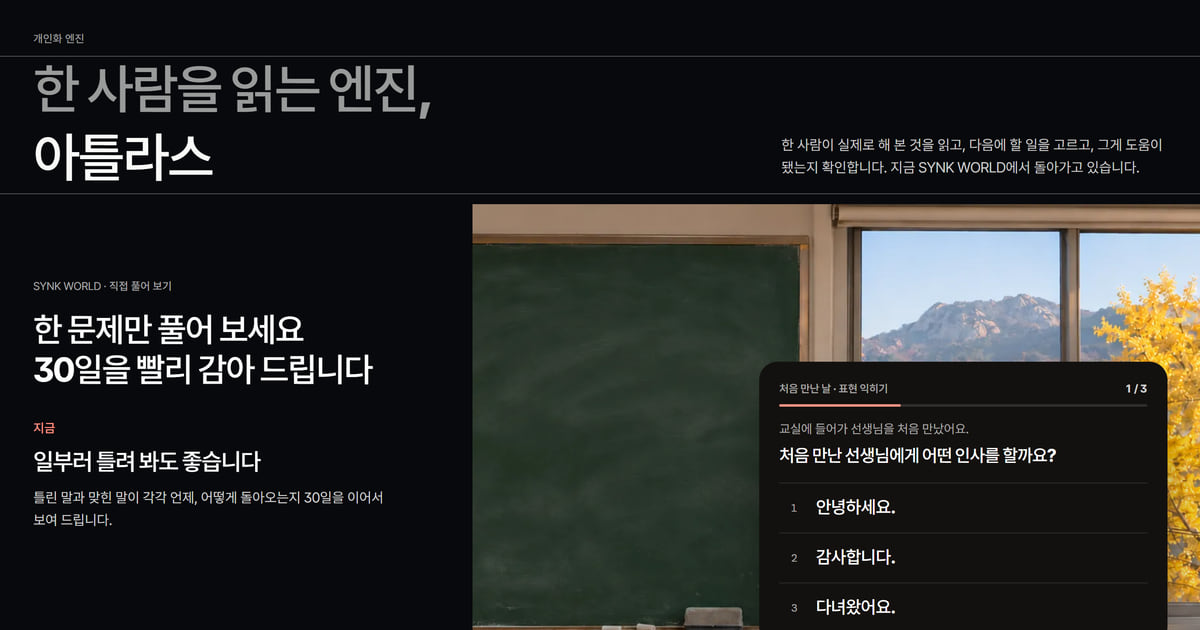
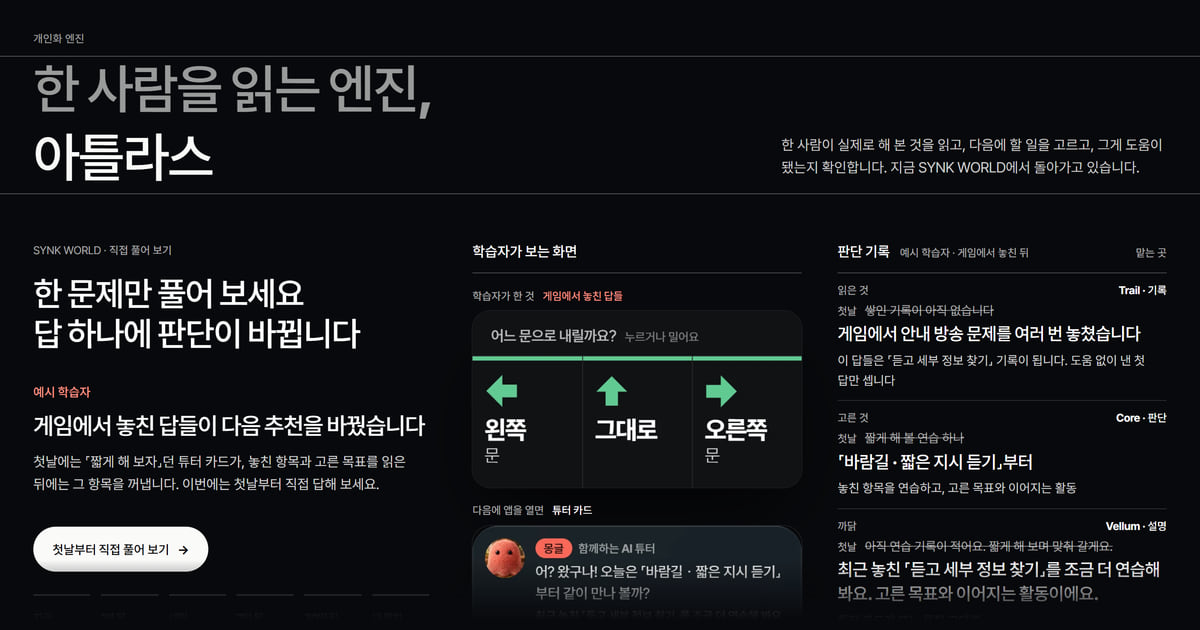
synk.im 뼈대 3단계(2026-11-12): 아틀라스 첫 화면에 「판단 기록」 — 교실 사진 자리에 읽은 것 · 고른 것 · 까닭 세 줄과 맡는 곳 꼬리표, 방문자의 답과 시간에 따라 바뀜(쉬는 화면은 예시 학습자의 한 사례), 공유 그림 새 첫 화면 · 창업자 맺음 제목 「결과로 증명하겠습니다.」 — 원고 SYNK-website claude/site-skeleton-atlas-20261111 9ec2a55(공개 파일) · fe3c0ae(문서 · 시험)

diff --git a/atlas/index.html b/atlas/index.html
@@ -10,15 +10,15 @@
 <link rel="canonical" href="https://synk.im/atlas/">
 <link rel="alternate" hreflang="ko" href="https://synk.im/atlas/"><link rel="alternate" hreflang="en" href="https://synk.im/en/atlas/"><link rel="alternate" hreflang="x-default" href="https://synk.im/atlas/">
 <meta property="og:type" content="website"><meta property="og:url" content="https://synk.im/atlas/"><meta property="og:title" content="아틀라스 — 한 사람을 읽는 엔진"><meta property="og:description" content="아틀라스는 SYNK가 직접 만드는 엔진입니다. 한 사람이 실제로 해 본 것을 읽고, 다음에 할 일을 고르고, 그게 도움이 됐는지 확인합니다. 지금 SYNK WORLD에서 돌아가고 있습니다.">
-<meta property="og:image" content="https://synk.im/assets/v10/og/atlas-ko.jpg?v=3105b8fa22bc"><meta property="og:image:width" content="1200"><meta property="og:image:height" content="630"><meta property="og:image:alt" content="아틀라스 첫 화면 — 「한 사람을 읽는 엔진, 아틀라스」와 직접 풀어 보는 SYNK WORLD 첫 레슨 문제"><meta name="twitter:card" content="summary_large_image">
+<meta property="og:image" content="https://synk.im/assets/v10/og/atlas-ko.jpg?v=ba7c8cff6281"><meta property="og:image:width" content="1200"><meta property="og:image:height" content="630"><meta property="og:image:alt" content="아틀라스 첫 화면 — 「한 사람을 읽는 엔진, 아틀라스」와 예시 학습자의 판단 기록: 게임에서 놓친 답들, 읽은 것 · 고른 것 · 까닭, 다음에 뜨는 튜터 카드"><meta name="twitter:card" content="summary_large_image">
 <link rel="icon" type="image/png" sizes="16x16" href="/assets/favicon-synk-20260919-16.png"><link rel="icon" type="image/png" sizes="32x32" href="/assets/favicon-synk-20260919-32.png"><link rel="icon" type="image/png" sizes="48x48" href="/assets/favicon-synk-20260919-48.png">
 <link rel="preload" href="/assets/v10/suit-v10.woff2" as="font" type="font/woff2" crossorigin>
 <link rel="stylesheet" href="/assets/v10/site.css?v=b67abdbcb510">
 <script>document.documentElement.classList.replace('no-js','js')</script>
 <script type="module" src="/assets/v10/site.js?v=cb64453758c6"></script>
 <link rel="stylesheet" href="/assets/v10/learner.css?v=e13a67585cab">
-<script type="module" src="/assets/v10/learner.js?v=3704c6c7fcdb"></script>
-<link rel="stylesheet" href="/assets/v10/skeleton.css?v=d420bff6b92d">
+<script type="module" src="/assets/v10/learner.js?v=cd2fc412984c"></script>
+<link rel="stylesheet" href="/assets/v10/skeleton.css?v=25431eab662d">
 <script type="module" src="/assets/v10/skeleton.js?v=4b42625da08b"></script>
 <script type="module" src="/social-conversion.js?v=07c3d1bb5c11"></script>
 </head>
@@ -36,16 +36,25 @@
 <div class="k-top"><h1 class="k-claim k-spec" id="p-title"><span class="dim">한 사람을 읽는 엔진,</span> <span>아틀라스</span></h1>
 <p class="k-top-side" data-intro>한 사람이 실제로 해 본 것을 읽고, 다음에 할 일을 고르고, 그게 도움이 됐는지 확인합니다. 지금 SYNK WORLD에서 돌아가고 있습니다.</p></div>
 </div></section>
-<section class="lw lw--try" id="learner" aria-labelledby="learner-title" data-try>
+<section class="lw lw--try lw--judge" id="learner" aria-labelledby="learner-title" data-try>
 <script type="application/json" data-try-data>{"steps":["지금","1분 뒤","내일","7일 뒤","30일 뒤","내 위치"],"start":"class-now","first":{"when":"지금","say":"일부러 틀려 봐도 좋습니다","sub":"틀린 말과 맞힌 말이 각각 언제, 어떻게 돌아오는지 30일을 이어서 보여 드립니다.","head":["처음 만난 날 · 표현 익히기","1 / 3",0.3333333333333333],"context":"교실에 들어가 선생님을 처음 만났어요.","prompt":"처음 만난 선생님에게 어떤 인사를 할까요?","answerId":"a","choices":[{"id":"a","text":"안녕하세요."},{"id":"b","text":"감사합니다."},{"id":"c","text":"다녀왔어요."}]},"second":{"head":["처음 만난 날 · 새 장면 복습","1 / 1",1],"when":"1분 뒤 · 같은 표현, 다른 장면","say":"어? 전에 만난 말인데\n장면이 달라!","sub":"답의 자리만 외우지 않게, 장면을 바꿔 묻습니다.","context":"아직 도움을 받거나 헤어지는 상황은 아니에요.","prompt":"학교에서 처음 만난 직원에게 인사해요.","answerId":"b","choices":[{"id":"a","text":"다녀왔어요."},{"id":"b","text":"안녕하세요."},{"id":"c","text":"감사합니다."}]},"right":{"say":"맞았습니다","sub":"이 말은 내일 다른 장면으로 다시 옵니다."},"wrong":{"say":"이 말은 1분 뒤에 돌아옵니다","sub":"같은 문제가 아니라 다른 장면으로 옵니다. 틀린 답도 첫 기록이 되어 1 · 7 · 30일 뒤 다시 확인합니다."},"backRight":{"say":"다시 만나 맞혔습니다","sub":"이제 내일 또 옵니다. 맞힐수록 간격이 1 · 3 · 7 · 14 · 30일로 벌어집니다."},"backWrong":{"say":"또 1분 뒤에 돌아옵니다","sub":"맞힐 때까지 간격이 벌어지지 않습니다."},"toMinute":"1분 뒤로","toDay1":"내일로","again":"처음부터 다시","days":[{"step":2,"at":"class-morning","when":"내일","say":"앱을 열면 튜터가 먼저 꺼냅니다","sub":"복습 시간표를 따로 열지 않습니다. 돌아올 말이 없는 날에는 다른 연습을 권합니다.","shot":"piece-tutor-review","next":"7일 뒤로"},{"step":3,"at":"class-rain","when":"7일 뒤","say":"맞혔다고 끝이 아닙니다","sub":"일주일 뒤, 다시 확인할 때입니다. 레슨이나 복습을 이어 가면 처음 보는 문제로 확인합니다.","shot":"piece-check-d7","next":"30일 뒤로"},{"step":4,"at":"class-snow","when":"30일 뒤","say":"한 달 뒤, 처음 보는 문제","sub":"레슨을 이어 가면 같은 항목의 다른 문제가 나옵니다. 외웠는지가 아니라 아는지를 봅니다.","ask":{"head":["처음 만난 날 · 표현 익히기","2 / 3",0.6666666666666666],"context":"친구가 떨어진 책을 주워 줬어요.","prompt":"도움을 받았어요. 어떤 말을 할까요?","answerId":"c","choices":[{"id":"a","text":"저는 몽글이에요."},{"id":"b","text":"안녕하세요."},{"id":"c","text":"감사합니다."}]},"right":{"say":"한 달 뒤에도 혼자 맞혔습니다","sub":"이 답이 30일 칸을 채웁니다. 하루 · 일주일 · 한 달 뒤 확인이 모두 끝났습니다."},"wrong":{"say":"이 칸은 「다시 연습」으로 남습니다","sub":"틀린 답도 그대로 남고, 이 말은 1분 뒤 다른 장면으로 돌아옵니다."},"next":"내 위치 보기"},{"step":5,"at":"class-snow","when":"내 위치","say":"점수 말고 근거로 봅니다","sub":"게임 · 생활 레슨 · 짧은 진단의 답이 한 기록에 모입니다. 내 위치는 처음 보는 문제를 도움 없이 푼 답으로만 정합니다.","shot":"piece-evidence"}],"go":{"label":"SYNK WORLD 열기","href":"/world/","arrow":"↗"}}</script>
-<div class="wrap lw-head"><div><p class="label"><span>SYNK WORLD · 직접 풀어 보기</span></p><h2 class="lw-title" id="learner-title"><span>한 문제만 풀어 보세요</span> <span>30일을 빨리 감아 드립니다</span></h2></div></div>
+<script type="application/json" data-judge-data>{"keep":4,"rest":{"when":"예시 학습자","say":"게임에서 놓친 답들이 다음 추천을 바꿨습니다","sub":"첫날에는 「짧게 해 보자」던 튜터 카드가, 놓친 항목과 고른 목표를 읽은 뒤에는 그 항목을 꺼냅니다. 이번에는 첫날부터 직접 답해 보세요.","go":"첫날부터 직접 풀어 보기"},"states":{"example":{"when":"예시 학습자 · 게임에서 놓친 뒤","foot":{"by":"Temper","text":"놓친 항목을 혼자 해낼 수 있게 됐는지는 1 · 7 · 30일 뒤, 처음 보는 문제로 다시 확인합니다","tag":"Temper · 확인"},"read":{"by":"Trail","text":"게임에서 안내 방송 문제를 여러 번 놓쳤습니다","sub":"이 답들은 「듣고 세부 정보 찾기」 기록이 됩니다. 도움 없이 낸 첫 답만 셉니다","was":"쌓인 기록이 아직 없습니다","tag":"Trail · 기록"},"pick":{"by":"Core","text":"「바람길 · 짧은 지시 듣기」부터","sub":"놓친 항목을 연습하고, 고른 목표와 이어지는 활동","was":"짧게 해 볼 연습 하나","tag":"Core · 판단"},"why":{"by":"Vellum","text":"최근 놓친 「듣고 세부 정보 찾기」를 조금 더 연습해 봐요. 고른 목표와 이어지는 활동이에요.","sub":"튜터 카드에 뜨는 문장 그대로","was":"아직 연습 기록이 적어요. 짧게 해 보며 맞춰 갈게요.","tag":"Vellum · 설명"},"wasLabel":"첫날"},"first":{"when":"지금 · 첫날","read":{"by":"Trail","text":"쌓인 기록이 아직 없습니다","tag":"Trail · 기록"},"pick":{"by":"Core","text":"짧게 해 볼 연습 하나","sub":"이 화면에서는 첫 레슨의 첫 문제","tag":"Core · 판단"},"why":{"by":"Vellum","text":"아직 연습 기록이 적어요. 짧게 해 보며 맞춰 갈게요.","sub":"튜터 카드에 뜨는 문장 그대로","tag":"Vellum · 설명"}},"first.wrong":{"when":"지금 · 답한 뒤","log":"지금 · 틀림 → 1분 뒤 다른 장면으로","read":{"by":"Trail","text":"방금 답은 틀렸습니다","sub":"틀린 답도 첫 기록으로 남습니다","tag":"Trail · 기록"},"pick":{"by":"SYNK WORLD 복습 일정","text":"1분 뒤, 같은 말을 다른 장면으로","sub":"맞힐 때까지 간격은 벌어지지 않습니다","was":"짧게 해 볼 연습 하나","tag":"SYNK WORLD 복습 일정"},"why":{"by":"","text":"같은 문제라면 답의 자리만 기억해도 맞힐 수 있습니다","tag":""},"wasLabel":"답하기 전"},"first.right":{"when":"지금 · 답한 뒤","log":"지금 · 혼자 맞힘 → 내일 다른 장면으로","read":{"by":"Trail","text":"방금 답은 혼자 맞혔습니다","sub":"처음 본 문제에 도움 없이 낸 답입니다","tag":"Trail · 기록"},"pick":{"by":"SYNK WORLD 복습 일정","text":"내일, 같은 말을 다른 장면으로","sub":"맞힐 때마다 1 · 3 · 7 · 14 · 30일 뒤로 늦춰집니다","was":"짧게 해 볼 연습 하나","tag":"SYNK WORLD 복습 일정"},"why":{"by":"","text":"한 번 맞힌 것으로는 외운 건지 아는 건지 모릅니다","tag":""},"wasLabel":"답하기 전"},"second":{"when":"1분 뒤","read":{"by":"Trail","text":"조금 전 「안녕하세요.」를 놓쳤습니다","tag":"Trail · 기록"},"pick":{"by":"SYNK WORLD 복습 일정","text":"같은 말, 새 장면","sub":"학교에서 처음 만난 직원에게 인사하기","tag":"SYNK WORLD 복습 일정"},"why":{"by":"","text":"답의 자리만 외우지 않게, 장면을 바꿔 묻습니다","tag":""}},"second.right":{"when":"1분 뒤 · 답한 뒤","log":"1분 뒤 · 다시 만나 맞힘 → 내일","read":{"by":"Trail","text":"다시 만나 맞혔습니다","sub":"다시 만난 답은 연습입니다. 혼자 해낸 근거로 세지 않습니다","tag":"Trail · 기록"},"pick":{"by":"SYNK WORLD 복습 일정","text":"내일 다시, 이제부터 간격이 벌어집니다","sub":"1 · 3 · 7 · 14 · 30일","tag":"SYNK WORLD 복습 일정"},"why":{"by":"","text":"맞힌 말은 잊을 때쯤 다시 꺼냅니다","tag":""}},"second.wrong":{"when":"1분 뒤 · 답한 뒤","log":"1분 뒤 · 또 틀림 → 다시 1분 뒤","read":{"by":"Trail","text":"같은 말을 다시 놓쳤습니다","sub":"다시 만난 답은 연습입니다. 새 근거로 세지 않습니다","tag":"Trail · 기록"},"pick":{"by":"SYNK WORLD 복습 일정","text":"또 1분 뒤, 다른 장면으로","tag":"SYNK WORLD 복습 일정"},"why":{"by":"","text":"맞힐 때까지 간격이 벌어지지 않습니다","tag":""}},"day0":{"when":"내일","log":"내일 · 튜터가 복습을 먼저 꺼냄","read":{"by":"SYNK WORLD 복습 일정","text":"복습할 때가 된 말이 있습니다","sub":"어제 만난 「안녕하세요.」","tag":"SYNK WORLD 복습 일정"},"pick":{"by":"Core","text":"오늘은 복습부터 권합니다","sub":"첫 인사 세 마디 · 새 상황 복습","tag":"Core · 판단"},"why":{"by":"Vellum","text":"복습할 시간이 된 내용이 있어요. 짧게 다시 만나 봐요.","sub":"튜터 카드에 뜨는 문장 그대로","tag":"Vellum · 설명"}},"day1":{"when":"7일 뒤","log":"7일 뒤 · 처음 보는 문제로 다시 확인","read":{"by":"Trail","text":"1일 뒤 확인은 혼자 맞혔습니다","sub":"예시 학습자의 기록","tag":"Trail · 기록"},"pick":{"by":"Temper","text":"7일 뒤 확인을 처음 보는 문제로","sub":"1일 · 7일 · 30일 뒤, 세 번 다시 봅니다","tag":"Temper · 확인"},"why":{"by":"","text":"한 번 맞힌 것으로는 외운 건지 아는 건지 모릅니다","tag":""}},"day2":{"when":"30일 뒤","read":{"by":"Trail","text":"1일 · 7일 뒤 확인을 지났습니다","sub":"예시 학습자의 기록","tag":"Trail · 기록"},"pick":{"by":"Temper","text":"같은 항목의 처음 보는 문제","sub":"낱말 뜻 읽기 · 다른 표현","tag":"Temper · 확인"},"why":{"by":"","text":"외웠는지가 아니라 아는지를 봅니다","tag":""}},"day2.right":{"when":"30일 뒤 · 답한 뒤","log":"30일 뒤 · 혼자 맞힘 → 30일 칸을 채움","read":{"by":"Trail","text":"처음 보는 문제를 혼자 맞혔습니다","tag":"Trail · 기록"},"pick":{"by":"Temper","text":"30일 칸을 채웁니다","sub":"1일 · 7일 · 30일 뒤 확인이 모두 끝났습니다","tag":"Temper · 확인"},"why":{"by":"","text":"같은 문제를 다시 맞힌 것은 확인으로 치지 않습니다","tag":""}},"day2.wrong":{"when":"30일 뒤 · 답한 뒤","log":"30일 뒤 · 틀림 → 「다시 연습」으로 남김","read":{"by":"Trail","text":"한 달 뒤 문제를 놓쳤습니다","tag":"Trail · 기록"},"pick":{"by":"Temper","text":"이 칸은 「다시 연습」으로 남깁니다","tag":"Temper · 확인"},"why":{"by":"","text":"틀린 답도 그대로 남깁니다","tag":""}},"day3":{"when":"내 위치","read":{"by":"Trail","text":"게임 · 생활 레슨 · 짧은 진단의 답이 한 기록에 모였습니다","tag":"Trail · 기록"},"pick":{"by":"Core","text":"도움 없이 푼 답을 근거로 위치를 정합니다","sub":"처음 보는 문제에서 혼자 맞힌 것","tag":"Core · 판단"},"why":{"by":"","text":"도움을 받고 맞힌 답, 이미 본 문제의 답은 혼자 해낸 근거가 아닙니다","tag":""}}}}</script>
+<div class="wrap lw-head"><div><p class="label"><span>SYNK WORLD · 직접 풀어 보기</span></p><h2 class="lw-title" id="learner-title"><span>한 문제만 풀어 보세요</span> <span>답 하나에 판단이 바뀝니다</span></h2></div></div>
 <div class="lw-stage"><div class="lw-tryframe">
-<div class="lw-copy"><div aria-live="polite"><p class="lw-when" data-when></p><p class="lw-q" data-say></p><p class="lw-a" data-sub></p></div><div class="lw-next" data-next></div></div>
-<div class="lw-visual"><img data-photo="class-now" src="/assets/v10/learner/class-now.webp" srcset="/assets/v10/r/v10-learner-class-now-w320.webp 320w, /assets/v10/r/v10-learner-class-now-w480.webp 480w, /assets/v10/r/v10-learner-class-now-w800.webp 800w, /assets/v10/r/v10-learner-class-now-w1200.webp 1200w, /assets/v10/learner/class-now.webp 1664w" sizes="(max-width:900px) 150vw, min(100vw,1920px)" alt="" width="1664" height="920" class="lw-photo is-on" loading="lazy" decoding="async"><img data-photo="class-morning" src="/assets/v10/learner/class-morning.webp" srcset="/assets/v10/r/v10-learner-class-morning-w320.webp 320w, /assets/v10/r/v10-learner-class-morning-w480.webp 480w, /assets/v10/r/v10-learner-class-morning-w800.webp 800w, /assets/v10/r/v10-learner-class-morning-w1200.webp 1200w, /assets/v10/learner/class-morning.webp 1664w" sizes="(max-width:900px) 150vw, min(100vw,1920px)" alt="" width="1664" height="920" class="lw-photo" loading="lazy" decoding="async"><img data-photo="class-rain" src="/assets/v10/learner/class-rain.webp" srcset="/assets/v10/r/v10-learner-class-rain-w320.webp 320w, /assets/v10/r/v10-learner-class-rain-w480.webp 480w, /assets/v10/r/v10-learner-class-rain-w800.webp 800w, /assets/v10/r/v10-learner-class-rain-w1200.webp 1200w, /assets/v10/learner/class-rain.webp 1664w" sizes="(max-width:900px) 150vw, min(100vw,1920px)" alt="" width="1664" height="920" class="lw-photo" loading="lazy" decoding="async"><img data-photo="class-snow" src="/assets/v10/learner/class-snow.webp" srcset="/assets/v10/r/v10-learner-class-snow-w320.webp 320w, /assets/v10/r/v10-learner-class-snow-w480.webp 480w, /assets/v10/r/v10-learner-class-snow-w800.webp 800w, /assets/v10/r/v10-learner-class-snow-w1200.webp 1200w, /assets/v10/learner/class-snow.webp 1664w" sizes="(max-width:900px) 150vw, min(100vw,1920px)" alt="" width="1664" height="920" class="lw-photo" loading="lazy" decoding="async">
-<div class="lw-piece lw-quiz" data-quiz><div class="lwq-top"><span data-qhead lang="ko"></span><span data-qcount></span></div><i class="lwq-bar" aria-hidden="true"><b data-qbar></b></i><p class="lwq-context" data-context lang="ko"></p><p class="lwq-prompt" data-prompt lang="ko"></p><div class="lwq-choices" data-choices lang="ko"></div></div>
+<div class="lw-copy"><div aria-live="polite"><p class="lw-when" data-when>예시 학습자</p><p class="lw-q" data-say>게임에서 놓친 답들이 다음 추천을 바꿨습니다</p><p class="lw-a" data-sub>첫날에는 「짧게 해 보자」던 튜터 카드가, 놓친 항목과 고른 목표를 읽은 뒤에는 그 항목을 꺼냅니다. 이번에는 첫날부터 직접 답해 보세요.</p></div><div class="lw-next" data-next></div></div>
+<div class="lw-visual">
+<p class="k-judge-head k-judge-did"><b>학습자가 보는 화면</b></p>
+<div class="k-judge-rest" data-judge-rest><figure class="k-judge-shot k-judge-shot--did"><figcaption><span>학습자가 한 것</span><em>게임에서 놓친 답들</em></figcaption><div><img src="/assets/v10/learner/ko/piece-game.webp" srcset="/assets/v10/r/v10-learner-ko-piece-game-w320.webp 320w, /assets/v10/r/v10-learner-ko-piece-game-w480.webp 480w, /assets/v10/learner/ko/piece-game.webp 780w" sizes="(max-width:719px) 92vw, (max-width:900px) 46vw, (min-width:1280px) min(34vw,540px), 430px" alt="환승 러시 게임의 고르는 판. 안내 방송을 듣고 「어느 문으로 내릴까요?」 아래 왼쪽 문, 그대로, 오른쪽 문 세 칸 가운데 하나를 누르거나 밀어 고른다" width="780" height="514" loading="lazy" decoding="async"></div></figure><figure class="k-judge-shot k-judge-shot--sees"><figcaption><span>다음에 앱을 열면</span><em>튜터 카드</em></figcaption><div><img src="/assets/v10/learner/ko/piece-tutor.webp" srcset="/assets/v10/r/v10-learner-ko-piece-tutor-w320.webp 320w, /assets/v10/r/v10-learner-ko-piece-tutor-w480.webp 480w, /assets/v10/learner/ko/piece-tutor.webp 732w" sizes="(max-width:719px) 92vw, (max-width:900px) 46vw, (min-width:1280px) min(34vw,540px), 430px" alt="SYNK WORLD 튜터 카드. 오늘은 「바람길 · 짧은 지시 듣기」부터 하자고 권하며, 최근 놓친 「듣고 세부 정보 찾기」를 더 연습하자는 이유를 적었다" width="732" height="277" loading="lazy" decoding="async"></div></figure></div>
+<div class="lw-piece lw-quiz" data-quiz hidden><div class="lwq-top"><span data-qhead lang="ko"></span><span data-qcount></span></div><i class="lwq-bar" aria-hidden="true"><b data-qbar></b></i><p class="lwq-context" data-context lang="ko"></p><p class="lwq-prompt" data-prompt lang="ko"></p><div class="lwq-choices" data-choices lang="ko"></div></div>
 <figure class="lw-piece lw-shot" data-shot="piece-tutor-review" hidden><img src="/assets/v10/learner/ko/piece-tutor-review.webp" srcset="/assets/v10/r/v10-learner-ko-piece-tutor-review-w320.webp 320w, /assets/v10/r/v10-learner-ko-piece-tutor-review-w480.webp 480w, /assets/v10/learner/ko/piece-tutor-review.webp 732w" sizes="(max-width:900px) 92vw, (min-width:1280px) min(34vw,540px), 430px" alt="다음 날의 튜터 카드. 오늘은 「첫 인사 세 마디 · 새 상황 복습」부터 하자며, 복습할 시간이 된 내용이 있다고 말한다" width="732" height="239" loading="lazy" decoding="async"></figure>
 <figure class="lw-piece lw-shot" data-shot="piece-check-d7" hidden><img src="/assets/v10/learner/ko/piece-check-d7.webp" srcset="/assets/v10/r/v10-learner-ko-piece-check-d7-w320.webp 320w, /assets/v10/r/v10-learner-ko-piece-check-d7-w480.webp 480w, /assets/v10/learner/ko/piece-check-d7.webp 692w" sizes="(max-width:900px) 92vw, (min-width:1280px) min(34vw,540px), 430px" alt="다시 확인 카드. 1일 뒤는 혼자 맞힘, 7일 뒤는 지금 확인, 30일 뒤는 12월 9일" width="692" height="236" loading="lazy" decoding="async"></figure>
 <figure class="lw-piece lw-shot" data-shot="piece-evidence" hidden><img src="/assets/v10/learner/ko/piece-evidence.webp" srcset="/assets/v10/r/v10-learner-ko-piece-evidence-w320.webp 320w, /assets/v10/r/v10-learner-ko-piece-evidence-w480.webp 480w, /assets/v10/learner/ko/piece-evidence.webp 780w" sizes="(max-width:900px) 92vw, (min-width:1280px) min(34vw,540px), 430px" alt="내 위치 화면의 낱말 뜻 읽기. 짧은 진단과 생활 한국어에서 혼자 맞힌 근거 두 줄" width="780" height="577" loading="lazy" decoding="async"></figure>
+<div class="k-judge" data-judge role="group" aria-labelledby="judge-title">
+<p class="k-judge-head"><span><b id="judge-title">판단 기록</b><span data-judge-when>예시 학습자 · 게임에서 놓친 뒤</span></span><span>맡는 곳</span></p>
+<dl class="k-judge-rows"><div data-judge-row="read"><dt><span>읽은 것</span><em data-judge-tag>Trail · 기록</em></dt><dd><p class="k-judge-was" data-judge-was><span>첫날</span><s>쌓인 기록이 아직 없습니다</s></p><p data-judge-text>게임에서 안내 방송 문제를 여러 번 놓쳤습니다</p><p data-judge-sub>이 답들은 「듣고 세부 정보 찾기」 기록이 됩니다. 도움 없이 낸 첫 답만 셉니다</p></dd></div><div data-judge-row="pick"><dt><span>고른 것</span><em data-judge-tag>Core · 판단</em></dt><dd><p class="k-judge-was" data-judge-was><span>첫날</span><s>짧게 해 볼 연습 하나</s></p><p data-judge-text>「바람길 · 짧은 지시 듣기」부터</p><p data-judge-sub>놓친 항목을 연습하고, 고른 목표와 이어지는 활동</p></dd></div><div data-judge-row="why"><dt><span>까닭</span><em data-judge-tag>Vellum · 설명</em></dt><dd><p class="k-judge-was" data-judge-was><span>첫날</span><s>아직 연습 기록이 적어요. 짧게 해 보며 맞춰 갈게요.</s></p><p data-judge-text>최근 놓친 「듣고 세부 정보 찾기」를 조금 더 연습해 봐요. 고른 목표와 이어지는 활동이에요.</p><p data-judge-sub>튜터 카드에 뜨는 문장 그대로</p></dd></div></dl>
+<p class="k-judge-foot" data-judge-foot><span>놓친 항목을 혼자 해낼 수 있게 됐는지는 1 · 7 · 30일 뒤, 처음 보는 문제로 다시 확인합니다</span><em>Temper · 확인</em></p>
+<ol class="k-judge-past" data-judge-past aria-label="지나온 판단"></ol>
+</div>
 </div>
 </div></div>
 <div class="wrap lw-rail-wrap"><ol class="lw-steps" data-steps><li><i aria-hidden="true"></i><span>지금</span></li><li><i aria-hidden="true"></i><span>1분 뒤</span></li><li><i aria-hidden="true"></i><span>내일</span></li><li><i aria-hidden="true"></i><span>7일 뒤</span></li><li><i aria-hidden="true"></i><span>30일 뒤</span></li><li><i aria-hidden="true"></i><span>내 위치</span></li></ol></div>
@@ -58,8 +67,6 @@
 
 <div class="lwm-block"><div class="lwm-head"><h3>표현 하나가 돌아오는 길</h3><p>제때 돌아와 계속 맞힐 때</p></div>
 <div class="lwt"><div class="lwt-row lwt-review"><p class="lwt-name">다시 만나기<small>같은 말, 다른 장면</small></p><div class="lwt-axis"><i class="lwt-mark is-hot" style="--at:0.0000;--at-m:0.0000"></i><i class="lwt-mark" style="--at:0.0333;--at-m:0.1826"></i><i class="lwt-mark" style="--at:0.0667;--at-m:0.2582"></i><i class="lwt-mark" style="--at:0.1667;--at-m:0.4082"></i><i class="lwt-mark" style="--at:0.4000;--at-m:0.6325"></i><i class="lwt-mark" style="--at:0.8667;--at-m:0.9309"></i><em class="lwt-gap" style="--at:0.0500;--at-m:0.2236">1일</em><em class="lwt-gap" style="--at:0.1167;--at-m:0.3416">3일</em><em class="lwt-gap" style="--at:0.2833;--at-m:0.5323">7일</em><em class="lwt-gap" style="--at:0.6333;--at-m:0.7958">14일</em><em class="lwt-start"><b>틀리면 1분 뒤</b> · 맞히면 내일</em><em class="lwt-next">다음은 30일 뒤 →</em></div></div><div class="lwt-row lwt-check"><p class="lwt-name">다시 확인<small>같은 항목, 처음 보는 문제</small></p><div class="lwt-axis"><i class="lwt-mark" style="--at:0.0333;--at-m:0.1826"><span>1일</span></i><i class="lwt-mark" style="--at:0.2333;--at-m:0.4830"><span>7일</span></i><i class="lwt-mark" style="--at:1.0000;--at-m:1.0000"><span>30일</span></i></div></div></div></div>
-<div class="lwm-block"><div class="lwm-head"><h3>같은 자리, 달라지는 한 줄</h3><p>튜터 카드의 이유 문장 — 실제 화면 그대로</p></div>
-<ol class="lwm-lines"><li><span>첫날</span><q>아직 연습 기록이 적어요. 짧게 해 보며 맞춰 갈게요.</q></li><li><span>레슨 둘 뒤</span><q>생활 팩의 다음 레슨이에요. 아직 기록이 없는 표현을 새로 만나요.</q></li><li><span>복습이 돌아온 날</span><q>복습할 시간이 된 내용이 있어요. 짧게 다시 만나 봐요.</q></li><li><span>게임에서 놓친 뒤</span><q>최근 놓친 「듣고 세부 정보 찾기」를 조금 더 연습해 봐요. 고른 목표와 이어지는 활동이에요.</q></li></ol></div>
 <div class="lwm-why"><div><h3>같은 시간, 왜 더 남나</h3><p>몰아서 다시 읽으면 그날은 아는 것 같습니다. 간격을 두고 다시 꺼내 보면 더 오래 남는다는 것은 학습 연구가 되풀이해 보여 준 결과입니다. SYNK WORLD는 그 간격을 학습자 대신 기억합니다.</p><small><a href="https://pubmed.ncbi.nlm.nih.gov/16719566/" rel="noopener" target="_blank">간격 효과(Cepeda 외, 2006)</a> · <a href="https://pubmed.ncbi.nlm.nih.gov/16507066/" rel="noopener" target="_blank">떠올리기 효과(Roediger · Karpicke, 2006)</a>. 연구 결과이며 SYNK WORLD에서 잰 효과는 아닙니다.</small></div><div><h3>공부하러 들어오지 않아도</h3><p>복습 시간표를 따로 열지 않습니다. 튜터가 먼저 말을 걸고, 재확인은 말의 리듬 · 주문 폭주 같은 게임 안에서도 일어납니다.</p></div><div><h3>쌓이지 않게</h3><p>못 한 계획은 다음 주로 쌓지 않습니다. 복습은 한 번에 여섯 개까지 꺼내고, 날짜를 놓친 재확인은 <span class="nb">「기간 지남」으로</span> 남을 뿐입니다.</p></div></div>
 </div></section>
 <section class="k-sec k-at-flow" id="flow" aria-labelledby="flow-title"><span id="personalization" class="sr-only" aria-hidden="true"></span><div class="wrap">

diff --git a/assets/v10/learner.js b/assets/v10/learner.js
@@ -2,6 +2,7 @@
 // 안 B의 일정은 SYNK WORLD 코드와 같은 규칙이다: 틀림 1분 뒤 · 처음 맞힘 내일(experiences/synk-world-app/life-progress.mjs), 틀린 답도 1 · 7 · 30일 확인의 첫 기록(atlas/temper.js).
 const reduce = matchMedia('(prefers-reduced-motion: reduce)').matches;
 const narrow = matchMedia('(max-width:900px)');
+const stacked = matchMedia('(max-width:1179px)'); // 아틀라스 판단 기록이 카드 아래에 놓이는 폭(901~1179px 포함)
 const DUR = 8000; // 한 칸 상영(자동 넘김). 사람이 고르면 자동 넘김은 멈춘다.
 
 /* ── 홈 · 아틀라스: 시간 줄을 누르면 그때의 창가 · 물음 · 실제 화면. 좁은 화면은 옆으로 넘기는 줄(모두 펼침). ── */
@@ -136,10 +137,26 @@ for (const root of document.querySelectorAll('[data-try]')) {
   // 글 머리부터 end(단추 · 마지막 보기)까지 한 화면에 들면 그만큼 끌어 올리고, 안 들면(360×640 같은 작은 화면) 바뀐 글부터 보인다.
   // 위 기준은 화면 위에 붙은 사이트 머리띠(.bar, 약 66px) 아래다 — 16px에 맞추면 때 글과 물음이 머리띠 뒤로 숨었다(11-10 검수)
   const lift = end => {
-    if (!started || !narrow.matches || !end) return;
+    if (!started || !end || !(narrow.matches || jbox && stacked.matches)) return;
     const bar = document.querySelector('.bar'), br = bar && getComputedStyle(bar).position === 'fixed' ? bar.getBoundingClientRect() : null;
-    const top = (br && br.bottom > 0 ? br.bottom : 0) + 12, head = when.parentElement.getBoundingClientRect(), bottom = end.getBoundingClientRect().bottom;
+    const top = (br && br.bottom > 0 ? br.bottom : 0) + 12, head = when.parentElement.getBoundingClientRect();
     const behavior = reduce ? 'auto' : 'smooth';
+    const er = end.getBoundingClientRect(), bottom = er.bottom;
+    if (jbox) {
+      // 판단 기록이 있는 쪽: 지금 보이는 화면(카드) · 바뀐 세 줄 · 누를 곳이 한 덩어리다(지나온 판단 줄은 덩어리에 넣지 않는다).
+      // 덩어리의 위 끝은 글 머리와 카드 윗변 가운데 높은 쪽 — 901~1179px에서는 카드가 오른쪽 칸에 있어 글 머리보다 높다.
+      const card = [...root.querySelectorAll('.lw-piece')].find(e => !e.hidden), cr = (card || when.parentElement).getBoundingClientRect();
+      const rows = jbox.querySelector('.k-judge-rows').getBoundingClientRect();
+      const blockTop = Math.min(head.top, cr.top), blockBottom = Math.max(bottom, rows.bottom), low = innerHeight - 16;
+      let dy;
+      if (blockBottom - blockTop <= low - top) dy = blockTop < top ? blockTop - top : blockBottom > low ? blockBottom - low : 0; // 한 화면에 든다 — 가려진 쪽만 맞춘다
+      else if (!next.firstElementChild) dy = narrow.matches && blockBottom - cr.top <= low - top ? blockBottom - low : cr.top - top; // 답하기 전: 물음(카드 머리)이 먼저 — 휴대폰은 카드부터 세 줄까지 들면 아래를 맞춘다
+      else if (narrow.matches) dy = blockBottom - low; // 휴대폰 · 답한 뒤: 아래부터 — 바뀐 세 줄과 포커스 받은 다음 단추
+      else dy = Math.min(blockBottom - low, Math.min(head.top, er.top) - top); // 901~1179px · 답한 뒤: 세 줄 끝까지 내리되 왼쪽 글 머리 · 다음 단추가 머리띠 뒤로 가지 않게
+      if (Math.abs(dy) >= 1) scrollBy({ top: dy, behavior });
+      return;
+    }
+    // 글 머리부터 end(단추 · 마지막 보기)까지 한 화면에 들면 그만큼 끌어 올리고, 안 들면 바뀐 글부터 보인다.
     if (bottom - head.top + top + 16 <= innerHeight) { if (head.top < top) scrollBy({ top: head.top - top, behavior }); else if (bottom > innerHeight - 16) scrollBy({ top: bottom - innerHeight + 16, behavior }); }
     else if (head.top < top || head.top > innerHeight / 2) scrollBy({ top: head.top - top, behavior });
   };
@@ -149,8 +166,39 @@ for (const root of document.querySelectorAll('[data-try]')) {
     lift(els[0]);
   };
   let started = false;
-  // 부품 그림을 눌러도 막히지 않게: 지금 단계의 주 단추와 같다.
-  for (const s of shots) s.addEventListener('click', () => next.querySelector('.btn')?.click());
+  const jbox = root.querySelector('[data-judge]'), jrest = root.querySelector('[data-judge-rest]'), jfoot = root.querySelector('[data-judge-foot]');
+  // 아틀라스 쪽 「판단 기록」(2026-11-11): 답과 시간에 따라 읽은 것 · 고른 것 · 까닭 세 줄이 바뀐다. 글은 쪽이 준 표(data-judge-data)이고, 표가 없는 쪽(LAB · 영어)에서는 아무 일도 하지 않는다.
+  const J = (() => { const s = root.querySelector('[data-judge-data]'); return s ? JSON.parse(s.textContent) : null; })();
+  const jrows = J ? [...root.querySelectorAll('[data-judge-row]')] : [], jwhen = $('[data-judge-when]'), jpast = $('[data-judge-past]');
+  let jkey = '', jtimer = 0;
+  const judge = key => {
+    const s = J && J.states[key]; if (!s) return;
+    // 지나온 판단은 한 줄씩 아래에 쌓인다(처음으로 돌아가면 비운다)
+    if (jpast) {
+      if (key === 'first') jpast.replaceChildren();
+      const was = J.states[jkey];
+      if (was && was.log && key !== jkey) { const li = document.createElement('li'); li.textContent = was.log; jpast.append(li); while (jpast.children.length > (J.keep || 4)) jpast.firstElementChild.remove(); }
+    }
+    jkey = key;
+    if (jwhen) jwhen.textContent = s.when;
+    // 쉬는 화면의 맺음 줄(이 추천이 도움이 됐는지는 뒤에 다시 확인한다)
+    if (jfoot) { jfoot.hidden = !s.foot; if (s.foot) { jfoot.firstElementChild.textContent = s.foot.text; jfoot.lastElementChild.textContent = s.foot.tag || s.foot.by; } }
+    clearTimeout(jtimer);
+    for (const row of jrows) {
+      const r = s[row.dataset.judgeRow]; if (!r) continue;
+      const main = row.querySelector('[data-judge-text]'), sub = row.querySelector('[data-judge-sub]'), tag = row.querySelector('[data-judge-tag]'), was = row.querySelector('[data-judge-was]');
+      const by = r.tag || r.by; // 꼬리표에 보이는 글: 엔진 이름 + 하는 일 한 낱말(「Trail · 기록」)
+      const changed = main.textContent !== r.text || tag.textContent !== by;
+      main.textContent = r.text; tag.textContent = by; tag.hidden = !by; sub.textContent = r.sub || ''; sub.hidden = !r.sub;
+      // 같은 자리의 앞 판단(「첫날」 · 「답하기 전」)에 줄을 그어 함께 보인다 — 무엇에서 무엇으로 바뀌었나
+      if (was) { was.hidden = !r.was; was.firstElementChild.textContent = r.was ? s.wasLabel || '' : ''; was.lastElementChild.textContent = r.was || ''; }
+      row.classList.remove('is-new');
+      if (changed && started) { void row.offsetWidth; row.classList.add('is-new'); }
+    }
+    jtimer = setTimeout(() => jrows.forEach(r => r.classList.remove('is-new')), 2400);
+  };
+  // 부품 그림을 눌러도 막히지 않게: 지금 단계의 주 단추와 같다(아틀라스 쉬는 화면의 그림 둘도).
+  for (const s of [...shots, ...(jrest ? jrest.querySelectorAll('figure') : [])]) s.addEventListener('click', () => next.querySelector('.btn')?.click());
   const ask = (q, done) => {
     text(q.when, q.say, q.sub);
     showShot(null);
@@ -180,29 +228,41 @@ for (const root of document.querySelectorAll('[data-try]')) {
   // 한 날: 실제 화면 한 장(shot), 또는 그날 처음 보는 문제(ask — 30일 뒤 다시 확인. 답하면 맞음 · 틀림 글로 바뀐다)
   const day = i => {
     const d = Q.days[i];
-    scene(d.at); stepTo(d.step);
+    scene(d.at); stepTo(d.step); judge('day' + i);
     const onward = () => {
       if (d.next) act(button(`${d.next} ${arrow}`, () => day(i + 1)));
       else act(link(`${Q.go.label} <span class="arr" aria-hidden="true">${Q.go.arrow}</span>`, Q.go.href), button(Q.again, () => { started = true; first(); }, 'lw-link lw-again'));
     };
-    if (d.ask) ask({ ...d.ask, when: d.when, say: d.say, sub: d.sub }, right => { const r = right ? d.right : d.wrong; text(null, r.say, r.sub); onward(); });
+    if (d.ask) ask({ ...d.ask, when: d.when, say: d.say, sub: d.sub }, right => { const r = right ? d.right : d.wrong; text(null, r.say, r.sub); judge('day' + i + (right ? '.right' : '.wrong')); onward(); });
     else { text(d.when, d.say, d.sub); showShot(d.shot); onward(); }
   };
   const second = () => {
-    scene(Q.start); stepTo(1);
+    scene(Q.start); stepTo(1); judge('second');
     ask(Q.second, right => {
+      judge(right ? 'second.right' : 'second.wrong');
       if (right) { text(null, Q.backRight.say, Q.backRight.sub); act(button(`${Q.toDay1} ${arrow}`, () => day(0))); }
       else { text(null, Q.backWrong.say, Q.backWrong.sub); act(button(`${Q.toMinute} ${arrow}`, second)); }
     });
   };
   function first() {
-    scene(Q.start); stepTo(0);
+    if (jrest) jrest.hidden = true;
+    scene(Q.start); stepTo(0); judge('first');
     ask(Q.first, right => {
+      judge(right ? 'first.right' : 'first.wrong');
       if (right) { text(null, Q.right.say, Q.right.sub); act(button(`${Q.toDay1} ${arrow}`, () => day(0))); }
       else { text(null, Q.wrong.say, Q.wrong.sub); act(button(`${Q.toMinute} ${arrow}`, second)); }
     });
   }
-  first();
+  // 아틀라스의 쉬는 화면: 예시 학습자의 한 사례 — 게임에서 놓친 답(실제 화면) · 그 사이의 판단(첫날 판단에 줄을 긋고 바뀐 판단) · 다음에 앱을 열면 뜨는 튜터 카드.
+  // 단추를 누르면 첫날부터 방문자의 답이 기록을 바꾼다.
+  const example = () => {
+    const E = J.rest;
+    scene(Q.start); stepTo(-1); judge('example');
+    text(E.when, E.say, E.sub); showShot('-'); // 문제 카드 · 날마다의 화면은 접어 둔다
+    jrest.hidden = false;
+    act(button(`${E.go} ${arrow}`, () => { started = true; first(); }));
+  };
+  if (J && J.rest && jrest) example(); else first();
   const near = new IntersectionObserver(es => { if (es[0].isIntersecting) { for (const i of root.querySelectorAll('img')) i.loading = 'eager'; near.disconnect(); } }, { rootMargin: '900px 0px' });
   near.observe(root);
 }

diff --git a/assets/v10/skeleton.css b/assets/v10/skeleton.css
@@ -660,3 +660,91 @@ body[data-k="pulse"] .pv-ask-note{font-size:var(--k1)}
 @media (min-width:1241px){.k-pa-day .pa-plan{border-top:0;padding-top:0}}  /* 1240px 이하는 지도 뒤에 오므로 옛 선 · 여백을 둔다(화면 검수 5.2) */
 /* 400px 이하: 요약 「누구에게 · 남는 것 · 순서」와 문의 단추가 한 줄에 다 들지 않는다 — 단추를 요약 아래 줄로(펼친 내용은 요약과 단추 사이) */
 @media (max-width:400px){.k-svc>li>.k-btn{grid-column:1/-1;grid-row:4;justify-self:start}.k-svc details,.k-svc details[open]{grid-column:1/-1;grid-row:3}.k-svc summary{white-space:nowrap;gap:6px}}
+
+/* ── 아틀라스 첫 화면 「판단 기록」(2026-11-11 3단계) ──
+   같은 30일을 엔진 쪽에서 본다: 왼쪽 문제 카드(학습자가 보는 화면) 옆에서 읽은 것 · 고른 것 · 까닭 세 줄이 답과 시간에 따라 바뀐다(learner.js judge).
+   교실 사진(빈 칠판)은 이 쪽에서 뺐다 — 2단계 맹검 「빈 칠판 사진 탓에 어학 복습 앱처럼 보인다 · 엔진의 판단이 안 보인다」. 상자를 더하지 않고 구역 머리 줄과 같은 선으로 긋는다. */
+.lw--judge .lw-visual{background:none}
+.k-judge{min-width:0}
+.k-judge-head{display:flex;align-items:baseline;justify-content:space-between;gap:16px;margin:0;padding-bottom:12px;border-bottom:1px solid var(--lw-line);font-size:var(--k1);font-weight:500;line-height:1.4;color:var(--lw-ink-3)}
+.k-judge-head b{font-size:var(--k3);font-weight:600;color:#fff}
+.k-judge-head>span:first-child{display:flex;align-items:baseline;gap:12px;min-width:0}
+/* 쉬는 화면의 실제 화면 둘(예시 학습자의 한 사례): 학습자가 한 것(게임에서 놓친 답) → 다음에 앱을 열면(튜터 카드). 그 사이의 판단이 오른쪽 기록이다 */
+.k-judge-rest{display:grid;gap:18px;min-width:0}
+.k-judge-rest[hidden]{display:none}
+.k-judge-shot{display:grid;gap:9px;min-width:0;margin:0;cursor:pointer}
+.k-judge-shot figcaption{display:flex;align-items:baseline;gap:10px;font-size:var(--k1);font-weight:500;line-height:1.4;color:var(--lw-ink-3)}
+.k-judge-shot figcaption em{font-style:normal;font-weight:600;color:#fff}
+.k-judge-shot--did figcaption em{color:var(--lw-hot)}
+.k-judge-shot>div{border-radius:22px;overflow:hidden;box-shadow:0 0 0 1px rgba(255,255,255,.08),0 44px 90px -28px rgba(0,0,0,.78)}
+.k-judge-shot img{display:block;width:100%;height:auto}
+/* 게임 화면(환승 러시 고르는 판 780×514)은 물음 줄과 세 칸의 한글 이름까지 — 아래 영문 꼬리 줄 앞에서 자른다 */
+.k-judge-shot--did>div{aspect-ratio:780/420}
+.k-judge-shot--did img{height:100%;object-fit:cover;object-position:50% 0}
+.k-judge-rows{margin:0}
+.k-judge-rows>div{position:relative;padding:11px 0 12px;border-bottom:1px solid rgba(255,255,255,.14)}
+.k-judge-rows dt{display:flex;align-items:baseline;justify-content:space-between;gap:12px;font-size:var(--k1);font-weight:500;line-height:1.4;color:var(--lw-ink-3)}
+.k-judge-rows dt em{font-style:normal;font-weight:600;color:#fff;text-align:right}
+.k-judge-rows dd{margin:5px 0 0}
+.k-judge-rows p{margin:0}
+.k-judge-rows [data-judge-text]{font-size:var(--k4);font-weight:600;line-height:1.38;letter-spacing:-.02em;color:#fff;text-wrap:pretty;word-break:keep-all}
+.k-judge-rows [data-judge-sub]{margin-top:5px;font-size:var(--k2);font-weight:400;line-height:1.55;color:var(--lw-ink-2);text-wrap:pretty;word-break:keep-all}
+/* 같은 자리의 앞 판단(「첫날에는 · …」 「답하기 전 · …」): 무엇에서 무엇으로 바뀌었는지 */
+.k-judge-was{display:flex;align-items:baseline;gap:10px;margin-bottom:3px!important;font-size:var(--k2);font-weight:400;line-height:1.5;color:var(--lw-ink-3)}
+.k-judge-was[hidden]{display:none}
+.k-judge-was span{flex:none;font-size:var(--k1);font-weight:500}
+.k-judge-was s{min-width:0;text-decoration:line-through;text-decoration-color:rgba(255,255,255,.5);text-wrap:pretty;word-break:keep-all}
+/* 쉬는 화면의 맺음 줄: 이 추천이 도움이 됐는지는 뒤에 다시 확인한다 */
+.k-judge-foot{display:flex;align-items:baseline;justify-content:space-between;gap:12px;margin:0;padding-top:11px;font-size:var(--k2);font-weight:400;line-height:1.5;color:var(--lw-ink-2)}
+.k-judge-foot[hidden]{display:none}
+.k-judge-foot span{min-width:0;text-wrap:pretty;word-break:keep-all}
+.k-judge-foot em{flex:none;font-style:normal;font-size:var(--k1);font-weight:600;color:#fff}
+/* 방금 바뀐 줄: 이름 앞에 산호 점이 켜지고 글이 다시 떠오른다 */
+.k-judge-rows dt span{position:relative}
+.k-judge-rows dt span::after{content:"";position:absolute;left:calc(100% + 8px);top:50%;width:6px;height:6px;margin-top:-3px;border-radius:50%;background:var(--lw-hot);opacity:0;transition:opacity .5s}
+.k-judge-rows .is-new dt span::after{opacity:1;transition:none}
+.k-judge-rows .is-new dd{animation:k-judge-in .55s var(--ease) both}
+@keyframes k-judge-in{from{opacity:0;transform:translateY(6px)}to{opacity:1;transform:none}}
+.k-judge-past{list-style:none;margin:0;padding:12px 0 0;display:grid;gap:4px;font-size:var(--k1);font-weight:400;line-height:1.5;color:var(--lw-ink-3)}
+.k-judge-past:empty{display:none}
+@media (prefers-reduced-motion:reduce){.k-judge-rows .is-new dd{animation:none}}
+@media (min-width:901px){
+  /* 오른쪽 칸: 「학습자가 보는 화면」(문제 카드 · 실제 화면 조각) 아래에 「판단 기록」 — 1180px부터는 둘이 나란히.
+     칸의 크기 가둠(learner.css의 container-type:size — LAB 교실 사진 자리 셈용, 1061px 이상)은 푼다: 이 쪽은 사진이 없고, 가둔 채로는 칸의 내용(카드 · 기록)이
+     무대 구역 높이에 들지 않아 기록이 구역 아래로 넘치고 다음 구역에 덮였다(1061~1179px 세 줄 모두 · 1200~1280px 낮은 창 맺음 줄 — 화면 검수 P1) */
+  .lw--judge.lw--try .lw-head>div:first-child{padding-top:clamp(32px,3.2vw,46px)}
+  .lw--judge .lw-visual{display:grid;grid-template-columns:minmax(0,1fr);container-type:normal;align-content:start;row-gap:0;padding:clamp(32px,3.2vw,46px) max(var(--gut),calc((100vw - var(--wrap)) / 2)) clamp(36px,3.6vw,52px) 0;overflow:visible}
+  .lw--judge .lw-piece{position:relative;right:auto;top:auto;width:auto;max-width:540px;margin-top:18px;transform:none}
+  .lw--judge .k-judge-rest{max-width:540px;margin-top:18px}
+  .lw--judge .k-judge{margin-top:28px}
+}
+@media (min-width:1180px){
+  .lw--judge .lw-visual{grid-template-columns:minmax(0,1fr) minmax(0,1fr);grid-template-rows:auto auto 1fr;column-gap:clamp(28px,3vw,48px)}
+  .lw--judge .k-judge-did,.lw--judge .lw-piece,.lw--judge .k-judge-rest{grid-column:1}
+  .lw--judge .k-judge{grid-column:2;grid-row:1/-1;align-self:start;margin-top:0}
+}
+@media (max-width:900px){
+  /* 휴대폰: 사진 자리를 걷고 문제 카드 바로 아래에 판단 기록 — 답 고르기와 바뀌는 세 줄이 한 화면에 든다 */
+  .lw--judge .lw-visual{padding-top:0;margin-top:16px}
+  .lw--judge .k-judge-did{margin:0 var(--gut) 12px}
+  .lw--judge .lw-piece{margin:0 auto 0 var(--gut)}  /* 카드는 머리 줄 · 기록과 같은 왼쪽 끝에서 */
+  .lw--judge .k-judge-rest{width:min(calc(100% - var(--gut) * 2),480px);margin:0 auto 0 var(--gut);gap:16px}
+  .k-judge-shot>div{border-radius:18px}
+  .lw--judge .k-judge{margin:18px var(--gut) 0}
+  .k-judge-rows>div{padding:9px 0 10px}
+  .k-judge-past li:not(:last-child){display:none}  /* 휴대폰은 바로 앞 판단 한 줄만 */
+  .k-judge-rows dd{margin-top:4px}
+  .k-judge-rows [data-judge-text]{font-size:var(--k3);line-height:1.4}
+  .k-judge-rows [data-judge-sub]{margin-top:2px;font-size:var(--k1);line-height:1.5}
+  .k-judge-was{margin-bottom:2px!important;font-size:var(--k1)}
+  .k-judge-foot{padding-top:10px;font-size:var(--k1)}
+  .k-judge-head{padding-bottom:9px}
+  .k-judge-past{padding-top:9px}
+}
+@media (min-width:720px) and (max-width:900px){
+  /* 태블릿 폭: 카드와 기록이 나란히 */
+  .lw--judge .lw-visual{display:grid;grid-template-columns:minmax(0,1fr) minmax(0,1fr);grid-template-rows:auto auto 1fr;column-gap:clamp(24px,3.4vw,32px);align-content:start;margin-inline:var(--gut)}
+  .lw--judge .k-judge-did{grid-column:1;margin:0 0 12px}
+  .lw--judge .lw-piece,.lw--judge .k-judge-rest{grid-column:1;width:auto;margin:0}
+  .lw--judge .k-judge{grid-column:2;grid-row:1/-1;align-self:start;margin:0}
+}

diff --git a/founder/index.html b/founder/index.html
@@ -16,7 +16,7 @@
 <link rel="stylesheet" href="/assets/v10/site.css?v=b67abdbcb510">
 <script>document.documentElement.classList.replace('no-js','js')</script>
 <script type="module" src="/assets/v10/site.js?v=cb64453758c6"></script>
-<link rel="stylesheet" href="/assets/v10/skeleton.css?v=d420bff6b92d">
+<link rel="stylesheet" href="/assets/v10/skeleton.css?v=25431eab662d">
 <script type="module" src="/assets/v10/skeleton.js?v=4b42625da08b"></script>
 </head>
 <body data-k="founder" data-site="synk" data-page="founder">
@@ -54,7 +54,7 @@
 <div class="k-two"><h2 class="k-title" id="career-title"><span>지금까지</span> <span>해 온 일</span></h2><p class="k-lead">건축과 심리학을 공부했고, 무대와 영상에서 퍼포머로 활동했고, 몽골의 학원에서 부원장으로 일했습니다. 건축에서는 구조를 보는 눈을, 심리학에서는 사람의 생각과 행동에 대한 관심을, 무대에서는 여러 사람과 호흡을 맞춰 결과를 만드는 경험을 얻었습니다. 지금은 이 경험을 모두 SYNK를 만드는 데 씁니다.</p></div>
 <div class="principles quad"><div class="principle"><h3>교육 · 운영</h3><p class="career-row"><span class="career-year">2026</span><b>몽골 Skyline Edu 전 부원장</b><span>학생 성장 · 교육 운영 · 마케팅</span></p></div><div class="principle"><h3>퍼포먼스 · 프로젝트</h3><p class="career-row"><span class="career-year">2023</span><b>RCA · Royal College of Art</b><span>영국 왕립예술대학 졸업 프로젝트 · 메인 퍼포머</span></p><p class="career-row"><span class="career-year">2023</span><b>드라마 「보라! 데보라」 · 넷플릭스</b><span>오프닝 시퀀스</span></p><p class="career-row"><span class="career-year">2014</span><b>LOEN Entertainment</b><span>퍼포머</span></p></div><div class="principle"><h3>수상</h3><p class="career-row"><span class="career-year">2026</span><b>서울로미디어캔버스 단편 애니메이션 공모</b><span>「다리가 기억하는 것」 당선 · 2026.12 ~ 2027.2 전시</span></p><p class="career-row"><span class="career-year">2019</span><b>Fine Art Photography Awards</b><span>Open Theme 부문 · Winner</span></p><p class="career-row"><span class="career-year">2017</span><b>MK Challenge · 매일경제 주최</b><span>프로젝트 리더 · 준우승</span></p></div><div class="principle"><h3>학력</h3><p class="career-row"><b>중앙대학교 심리학과</b></p></div></div>
 </div></section>
-<section class="k-sec k-fo-closing" id="closing"><div class="wrap"><div class="panel closing"><h2 class="h2"><span>아직 증명할 것이 많습니다.</span> <span>지켜봐 주세요.</span></h2><p class="lead">SYNK가 실제로 도움이 되는지는 결과로 보여 드려야 합니다. 사용자가 SYNK의 제안을 이해하고, 직접 고르고, 자기 공부와 일에 쓸 수 있는지까지 확인하겠습니다.</p><div class="btns"><a class="btn btn-dark" href="/">SYNK 첫 화면으로 <span class="arr" aria-hidden="true">↗</span></a></div></div></div></section>
+<section class="k-sec k-fo-closing" id="closing"><div class="wrap"><div class="panel closing"><h2 class="h2"><span>결과로 증명하겠습니다.</span></h2><p class="lead">SYNK가 정말 도움이 되는지는 말이 아니라 결과가 정합니다. 사용자가 제안을 이해하고, 직접 고르고, 자기 공부와 일에 쓰는지까지 확인하겠습니다.</p><div class="btns"><a class="btn btn-dark" href="/">SYNK 첫 화면으로 <span class="arr" aria-hidden="true">↗</span></a></div></div></div></section>
 <section class="section" id="contact" aria-labelledby="contact-title"><div class="wrap"><div class="ask reveal">
 <div class="ask-intro"><p class="k-rule"><span>묻기</span></p><h2 class="h2" id="contact-title"><span>무엇이든 물어보세요</span></h2><p class="lead">공개된 내용은 여기서 바로 답합니다. 상담과 제안은 메일로 받습니다.</p></div>
 <div class="ask-side"><div class="ask-contact"><a href="mailto:hello@synk.im"><span>hello@synk.im</span><span class="mono" aria-hidden="true">↗</span></a>

diff --git a/pulse/index.html b/pulse/index.html
@@ -21,7 +21,7 @@
 <script type="module" src="/assets/v10/pulse-v12.js?v=ad8c7588bd40"></script>
 <script type="module" src="/social-conversion.js?v=07c3d1bb5c11"></script>
 <script>(function(c,l,a,r,i,t,y){c[a]=c[a]||function(){(c[a].q=c[a].q||[]).push(arguments)};t=l.createElement(r);t.async=1;t.src="https://www.clarity.ms/tag/"+i;y=l.getElementsByTagName(r)[0];y.parentNode.insertBefore(t,y)})(window,document,"clarity","script","z67ez8kfp3");</script>
-<link rel="stylesheet" href="/assets/v10/skeleton.css?v=d420bff6b92d">
+<link rel="stylesheet" href="/assets/v10/skeleton.css?v=25431eab662d">
 <script type="module" src="/assets/v10/skeleton.js?v=4b42625da08b"></script>
 </head>
 <body data-k="pulse" data-site="pulse" data-page="pulse">

diff --git a/index.html b/index.html
@@ -24,8 +24,8 @@
 <link rel="stylesheet" href="/assets/v10/home-body.css?v=e69bfce5e2fd">
 <link rel="stylesheet" href="/assets/v10/home-v12.css?v=f1d631f81f52">
 <link rel="stylesheet" href="/assets/v10/learner.css?v=e13a67585cab">
-<script type="module" src="/assets/v10/learner.js?v=3704c6c7fcdb"></script>
-<link rel="stylesheet" href="/assets/v10/skeleton.css?v=d420bff6b92d">
+<script type="module" src="/assets/v10/learner.js?v=cd2fc412984c"></script>
+<link rel="stylesheet" href="/assets/v10/skeleton.css?v=25431eab662d">
 <script type="module" src="/assets/v10/skeleton.js?v=4b42625da08b"></script>
 <script type="module" src="/social-conversion.js?v=07c3d1bb5c11"></script>
 </head>

diff --git a/lab/index.html b/lab/index.html
@@ -19,8 +19,8 @@
 <link rel="stylesheet" href="/assets/v10/drama.css?v=880f70fa9722">
 <script type="module" src="/assets/v10/drama.js?v=b9cbdc4eaf37"></script>
 <link rel="stylesheet" href="/assets/v10/learner.css?v=e13a67585cab">
-<script type="module" src="/assets/v10/learner.js?v=3704c6c7fcdb"></script>
-<link rel="stylesheet" href="/assets/v10/skeleton.css?v=d420bff6b92d">
+<script type="module" src="/assets/v10/learner.js?v=cd2fc412984c"></script>
+<link rel="stylesheet" href="/assets/v10/skeleton.css?v=25431eab662d">
 <script type="module" src="/assets/v10/skeleton.js?v=4b42625da08b"></script>
 <script type="module" src="/social-conversion.js?v=07c3d1bb5c11"></script>
 </head>

diff --git a/shift/index.html b/shift/index.html
@@ -19,7 +19,7 @@
 <link rel="stylesheet" href="/assets/v10/shift-lectures.css?v=721f4f72e559">
 <link rel="stylesheet" href="/assets/v10/shift-v12.css?v=a76f7e07c35f">
 <script type="module" src="/assets/v10/shift-v12.js?v=665b5aa68bfa"></script>
-<link rel="stylesheet" href="/assets/v10/skeleton.css?v=d420bff6b92d">
+<link rel="stylesheet" href="/assets/v10/skeleton.css?v=25431eab662d">
 <script type="module" src="/assets/v10/skeleton.js?v=4b42625da08b"></script>
 <script type="module" src="/social-conversion.js?v=07c3d1bb5c11"></script>
 </head>

diff --git a/path/index.html b/path/index.html
@@ -18,7 +18,7 @@
 <script type="module" src="/assets/v10/site.js?v=cb64453758c6"></script>
 <link rel="stylesheet" href="/assets/v10/path-v12.css?v=4b76a330c3da">
 <script type="module" src="/assets/v10/path-v12.js?v=54c2ce780cc2"></script>
-<link rel="stylesheet" href="/assets/v10/skeleton.css?v=d420bff6b92d">
+<link rel="stylesheet" href="/assets/v10/skeleton.css?v=25431eab662d">
 <script type="module" src="/assets/v10/skeleton.js?v=4b42625da08b"></script>
 <script type="module" src="/social-conversion.js?v=07c3d1bb5c11"></script>
 </head>

diff --git a/en/atlas/index.html b/en/atlas/index.html
@@ -17,7 +17,7 @@
 <script>document.documentElement.classList.replace('no-js','js')</script>
 <script type="module" src="/assets/v10/site.js?v=cb64453758c6"></script>
 <link rel="stylesheet" href="/assets/v10/learner.css?v=e13a67585cab">
-<script type="module" src="/assets/v10/learner.js?v=3704c6c7fcdb"></script>
+<script type="module" src="/assets/v10/learner.js?v=cd2fc412984c"></script>
 <script type="module" src="/social-conversion.js?v=07c3d1bb5c11"></script>
 </head>
 <body data-site="synk" data-page="atlas">

diff --git a/en/index.html b/en/index.html
@@ -26,7 +26,7 @@
 <link rel="stylesheet" href="/assets/v10/drama.css?v=880f70fa9722">
 <script type="module" src="/assets/v10/drama.js?v=b9cbdc4eaf37"></script>
 <link rel="stylesheet" href="/assets/v10/learner.css?v=e13a67585cab">
-<script type="module" src="/assets/v10/learner.js?v=3704c6c7fcdb"></script>
+<script type="module" src="/assets/v10/learner.js?v=cd2fc412984c"></script>
 <script type="module" src="/social-conversion.js?v=07c3d1bb5c11"></script>
 </head>
 <body data-site="synk" data-page="home">

diff --git a/en/lab/index.html b/en/lab/index.html
@@ -19,7 +19,7 @@
 <link rel="stylesheet" href="/assets/v10/drama.css?v=880f70fa9722">
 <script type="module" src="/assets/v10/drama.js?v=b9cbdc4eaf37"></script>
 <link rel="stylesheet" href="/assets/v10/learner.css?v=e13a67585cab">
-<script type="module" src="/assets/v10/learner.js?v=3704c6c7fcdb"></script>
+<script type="module" src="/assets/v10/learner.js?v=cd2fc412984c"></script>
 <script type="module" src="/social-conversion.js?v=07c3d1bb5c11"></script>
 </head>
 <body data-site="lab" data-page="lab">
